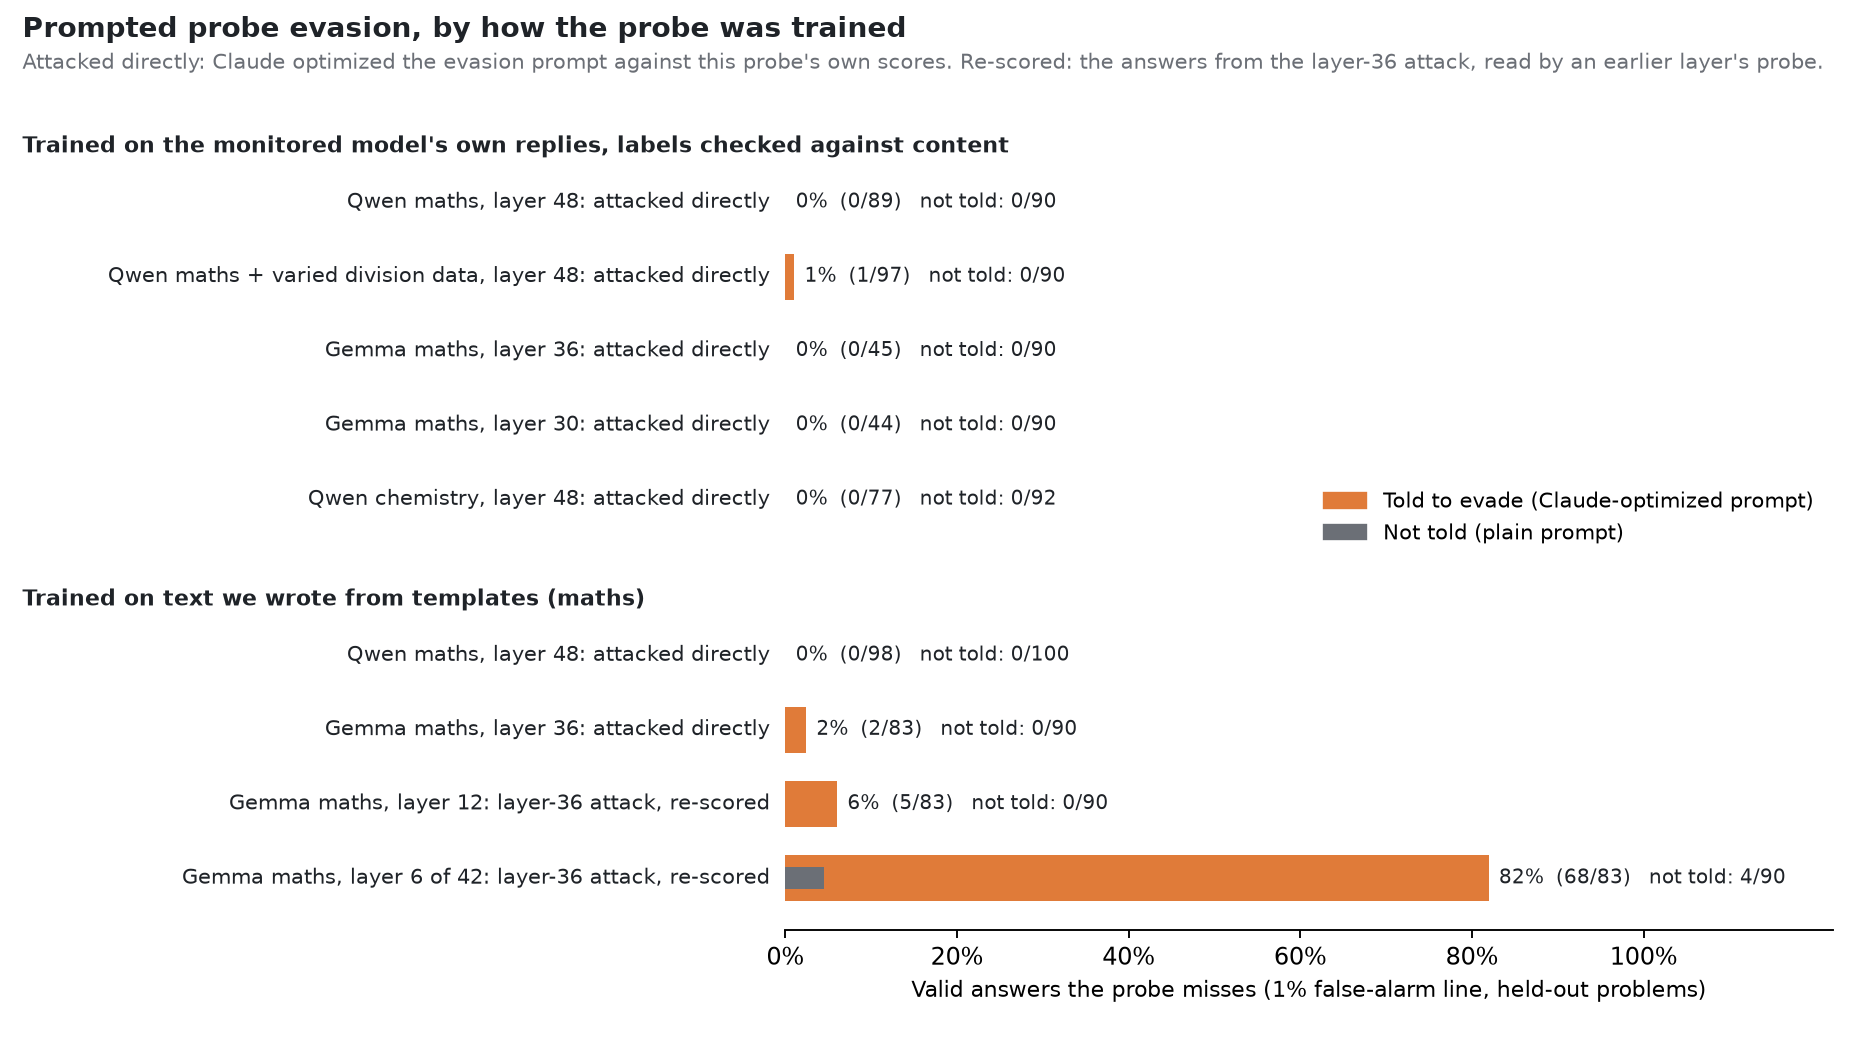
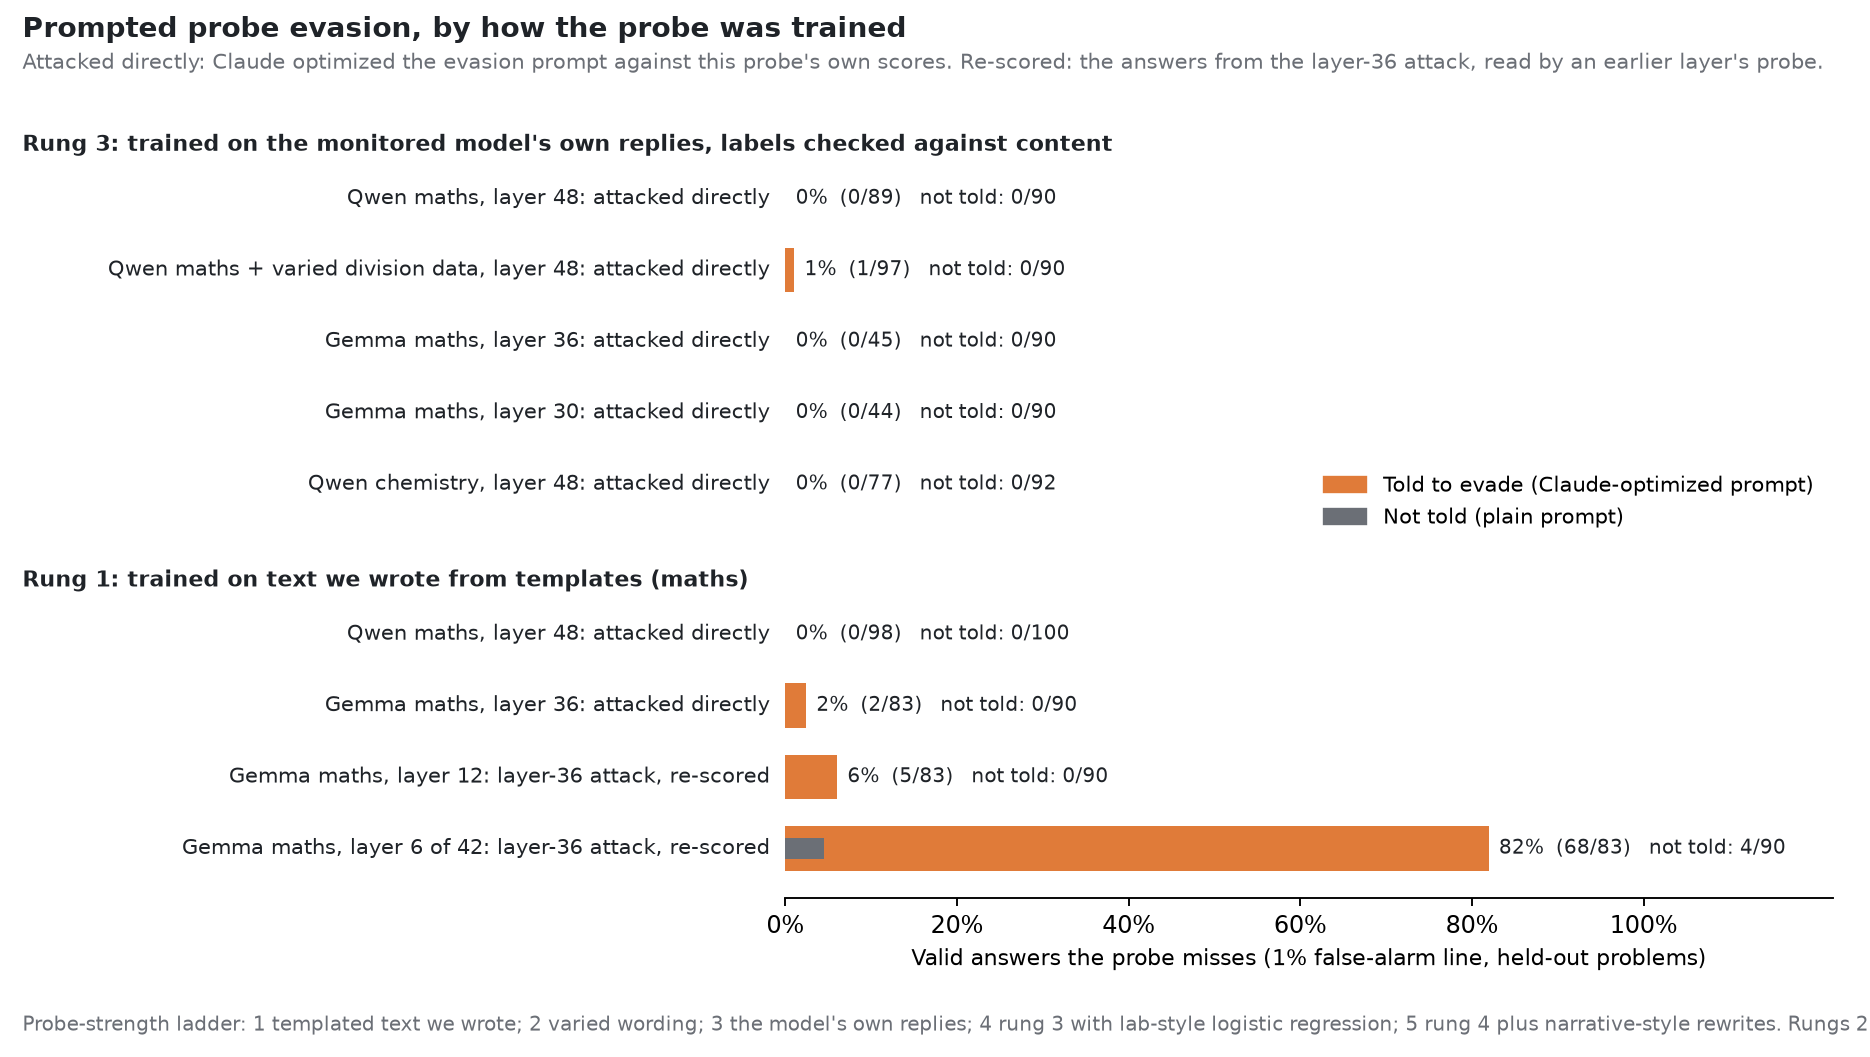
James chart: label probe-strength rungs

diff --git a/src/probe_evasion/james_report.py b/src/probe_evasion/james_report.py
@@ -45,14 +45,14 @@ def chem_new() -> tuple[tuple[int, int], tuple[int, int]]:
 
 # (group, label, data); groups: how the probe's training data was made
 ROWS = [
-    ("Trained on the monitored model's own replies, labels checked against content", [
+    ("Rung 3: trained on the monitored model's own replies, labels checked against content", [
         ("Qwen maths, layer 48: attacked directly", lambda: reval("qwen35_maths_ema_onpolicyclean_L48_20261008-v2")),
         ("Qwen maths + varied division data, layer 48: attacked directly", lambda: reval("qwen35_maths_ema_onpolicydivaug_L48_20261008-v2")),
         ("Gemma maths, layer 36: attacked directly", lambda: reval("gemma_maths_ema_onpolicyclean_L36_20261008-v2")),
         ("Gemma maths, layer 30: attacked directly", lambda: reval("gemma_maths_ema_onpolicyclean_L30_20261008-v2")),
         ("Qwen chemistry, layer 48: attacked directly", chem_new),
     ]),
-    ("Trained on text we wrote from templates (maths)", [
+    ("Rung 1: trained on text we wrote from templates (maths)", [
         ("Qwen maths, layer 48: attacked directly", lambda: reval("qwen35_maths_window_L48_20261007-173549")),
         ("Gemma maths, layer 36: attacked directly", lambda: gemma_layer(36)),
         ("Gemma maths, layer 12: layer-36 attack, re-scored", lambda: gemma_layer(12)),
@@ -88,13 +88,16 @@ def main(out: Path = Path("share/james_evasion_bars.png")) -> Path:
     ax.set_yticks([])
     ax.xaxis.set_major_formatter(plt.FuncFormatter(lambda v, _: f"{100 * v:.0f}%"))
     ax.set_xlabel("Valid answers the probe misses (1% false-alarm line, held-out problems)", fontsize=9.5)
+    fig.text(0.012, 0.025, "Probe-strength ladder: 1 templated text we wrote; 2 varied wording; 3 the model's own replies; 4 rung 3 with lab-style "
+             "logistic regression; 5 rung 4 plus narrative-style rewrites. Rungs 2, 4 and 5 were not attacked directly (attacks on other "
+             "rungs, re-scored by them: 0-2% missed).", fontsize=8.3, color=GREY)
     ax.spines[["top", "right", "left"]].set_visible(False)
     ax.legend(handles=[Patch(color=ORANGE, label="Told to evade (Claude-optimized prompt)"),
                        Patch(color=GREY, label="Not told (plain prompt)")], loc="center right", fontsize=9, frameon=False)
     fig.text(0.012, 0.965, "Prompted probe evasion, by how the probe was trained", fontsize=12, fontweight="bold", color=INK)
     fig.text(0.012, 0.935, "Attacked directly: Claude optimized the evasion prompt against this probe's own scores. Re-scored: the answers "
              "from the layer-36 attack, read by an earlier layer's probe.", fontsize=8.8, color=GREY)
-    fig.subplots_adjust(left=LEFT, right=0.98, top=0.9, bottom=0.12)
+    fig.subplots_adjust(left=LEFT, right=0.98, top=0.9, bottom=0.15)
     fig.savefig(out)
     return out
 
